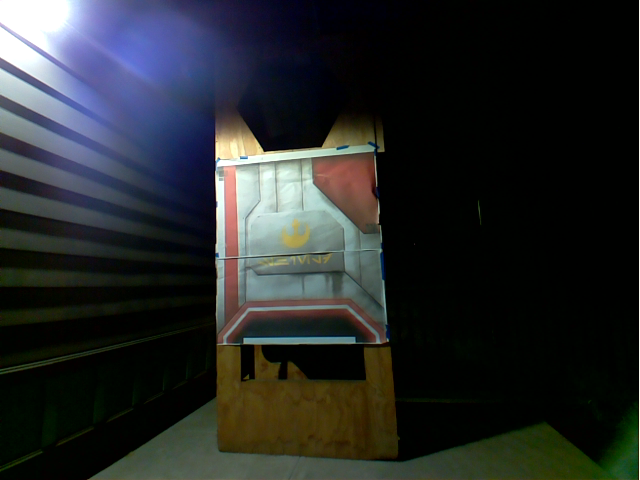
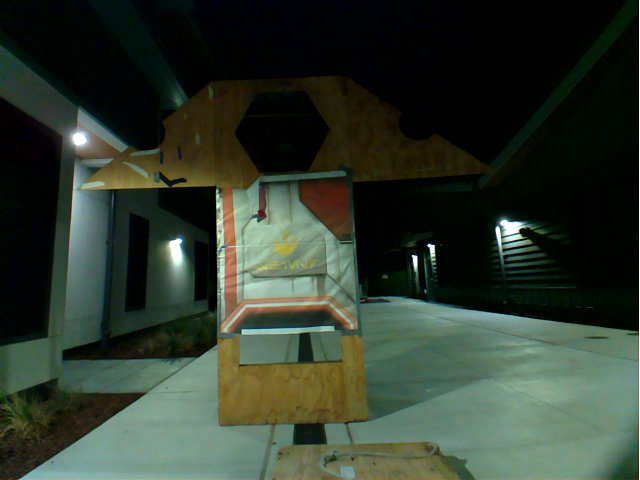
Adding targets for night time and far away daytime
Also fixed a couple lines that weren't printing properly in switch from
print to glog

diff --git a/y2020/vision/tools/python_code/target_definition.py b/y2020/vision/tools/python_code/target_definition.py
@@ -197,6 +197,113 @@ def load_training_data():
     training_target_power_port_taped.target_radius = target_radius_default
 
     ###
+    ### Taped power port -- far away image
+    ###
+
+    # Create the reference "ideal" image.
+    # NOTE: Since we don't have an "ideal" (e.g., graphic) version, we're
+    # just using the same image as the training image.
+    ideal_power_port_taped_far = TargetData(
+        'test_images/partial_971_power_port_red_daytime_far.png')
+
+    # Start at lower left corner, and work around clockwise
+    # These are taken by manually finding the points in gimp for this image
+    power_port_taped_far_main_panel_polygon_points_2d = [
+        (259, 363), (255, 230), (178, 234), (255, 169), (329, 164), (334, 225),
+        (341, 361)
+    ]
+
+    # These are "virtual" 3D points based on the expected geometry
+    power_port_taped_far_main_panel_polygon_points_3d = [
+        (-field_length / 2., c_power_port_edge_y, 0.),
+        (-field_length / 2., c_power_port_edge_y,
+         c_power_port_bottom_wing_height),
+        (-field_length / 2., c_power_port_edge_y - c_power_port_wing_width,
+         c_power_port_bottom_wing_height),
+        (-field_length / 2., c_power_port_edge_y, c_power_port_total_height),
+        (-field_length / 2., c_power_port_edge_y + c_power_port_width,
+         c_power_port_total_height),
+        (-field_length / 2., c_power_port_edge_y + c_power_port_width,
+         c_power_port_bottom_wing_height),
+        (-field_length / 2., c_power_port_edge_y + c_power_port_width, 0.)
+    ]
+
+    # Populate the taped power port
+    ideal_power_port_taped_far.polygon_list.append(
+        power_port_taped_far_main_panel_polygon_points_2d)
+    ideal_power_port_taped_far.polygon_list_3d.append(
+        power_port_taped_far_main_panel_polygon_points_3d)
+
+    # Location of target.  Rotation is pointing in -x direction
+    ideal_power_port_taped_far.target_rotation = -np.identity(3, np.double)
+    ideal_power_port_taped_far.target_position = np.array([
+        -field_length / 2., c_power_port_edge_y + c_power_port_width / 2.,
+        c_power_port_target_height
+    ])
+    ideal_power_port_taped_far.target_point_2d = np.float32(
+        [[294, 198]]).reshape(-1, 1,
+                              2)  # partial_971_power_port_red_daytime.png
+
+    training_target_power_port_taped_far = TargetData(
+        'test_images/partial_971_power_port_red_daytime_far.png')
+    training_target_power_port_taped_far.target_rotation = ideal_power_port_taped_far.target_rotation
+    training_target_power_port_taped_far.target_position = ideal_power_port_taped_far.target_position
+    training_target_power_port_taped_far.target_radius = target_radius_default
+
+    ###
+    ### Taped power port night image
+    ###
+
+    # Create the reference "ideal" image.
+    # NOTE: Since we don't have an "ideal" (e.g., graphic) version, we're
+    # just using the same image as the training image.
+    ideal_power_port_taped_night = TargetData(
+        'test_images/partial_971_power_port_red_nighttime.png')
+
+    # Start at lower left corner, and work around clockwise
+    # These are taken by manually finding the points in gimp for this image
+    power_port_taped_night_main_panel_polygon_points_2d = [
+        (217, 425), (215, 187), (78, 189), (212, 80), (344, 74), (347, 180),
+        (370, 421)
+    ]
+
+    # These are "virtual" 3D points based on the expected geometry
+    power_port_taped_night_main_panel_polygon_points_3d = [
+        (-field_length / 2., c_power_port_edge_y, 0.),
+        (-field_length / 2., c_power_port_edge_y,
+         c_power_port_bottom_wing_height),
+        (-field_length / 2., c_power_port_edge_y - c_power_port_wing_width,
+         c_power_port_bottom_wing_height),
+        (-field_length / 2., c_power_port_edge_y, c_power_port_total_height),
+        (-field_length / 2., c_power_port_edge_y + c_power_port_width,
+         c_power_port_total_height),
+        (-field_length / 2., c_power_port_edge_y + c_power_port_width,
+         c_power_port_bottom_wing_height),
+        (-field_length / 2., c_power_port_edge_y + c_power_port_width, 0.)
+    ]
+
+    # Populate the taped power port
+    ideal_power_port_taped_night.polygon_list.append(
+        power_port_taped_night_main_panel_polygon_points_2d)
+    ideal_power_port_taped_night.polygon_list_3d.append(
+        power_port_taped_night_main_panel_polygon_points_3d)
+
+    # Location of target.  Rotation is pointing in -x direction
+    ideal_power_port_taped_night.target_rotation = -np.identity(3, np.double)
+    ideal_power_port_taped_night.target_position = np.array([
+        -field_length / 2., c_power_port_edge_y + c_power_port_width / 2.,
+        c_power_port_target_height
+    ])
+    ideal_power_port_taped_night.target_point_2d = np.float32(
+        [[282, 132]]).reshape(-1, 1, 2)  # partial_971_power_port_red_night.png
+
+    training_target_power_port_taped_night = TargetData(
+        'test_images/partial_971_power_port_red_nighttime.png')
+    training_target_power_port_taped_night.target_rotation = ideal_power_port_taped_night.target_rotation
+    training_target_power_port_taped_night.target_position = ideal_power_port_taped_night.target_position
+    training_target_power_port_taped_night.target_radius = target_radius_default
+
+    ###
     ### Red Power Port
     ###
 
@@ -431,10 +538,23 @@ def load_training_data():
     ideal_target_list.append(ideal_power_port_taped)
     training_target_list.append(training_target_power_port_taped)
 
+    ### Taped power port far
+    glog.info(
+        "Adding hacked/taped up far away view of the power port to the model list"
+    )
+    ideal_target_list.append(ideal_power_port_taped_far)
+    training_target_list.append(training_target_power_port_taped_far)
+
+    ### Taped power port night
+    glog.info(
+        "Adding hacked/taped up of the power port at night to the model list")
+    ideal_target_list.append(ideal_power_port_taped_night)
+    training_target_list.append(training_target_power_port_taped_night)
+
     ### Red Power Port
-    glog.info("Adding red power port to the model list")
-    ideal_target_list.append(ideal_power_port_red)
-    training_target_list.append(training_target_power_port_red)
+    #glog.info("Adding red power port to the model list")
+    #ideal_target_list.append(ideal_power_port_red)
+    #training_target_list.append(training_target_power_port_red)
 
     ### Red Loading Bay
     #glog.info("Adding red loading bay to the model list")

diff --git a/y2020/vision/tools/python_code/train_and_match.py b/y2020/vision/tools/python_code/train_and_match.py
@@ -208,7 +208,7 @@ def compute_homographies(train_keypoint_lists, query_keypoint_lists,
 # Also shows image with query unwarped (to match training image) and target pt
 def show_results(training_images, train_keypoint_lists, query_images,
                  query_keypoint_lists, target_point_list, good_matches_list):
-    glog.info("Showing results for ", len(training_images), " training images")
+    glog.info("Showing results for %d training images" % len(training_images))
 
     homography_list, matches_mask_list = compute_homographies(
         train_keypoint_lists, query_keypoint_lists, good_matches_list)
@@ -219,14 +219,14 @@ def show_results(training_images, train_keypoint_lists, query_images,
         glog.debug("Showing results for model ", i)
         matches_mask_count = matches_mask_list[i].count(1)
         if matches_mask_count != len(good_matches):
-            glog.info("Homography rejected some matches!  From ",
-                      len(good_matches), ", only ", matches_mask_count,
-                      " were used")
+            glog.info(
+                "Homography rejected some matches!  From %d, only %d were used"
+                % (len(good_matches), matches_mask_count))
 
         if matches_mask_count < MIN_MATCH_COUNT:
             glog.info(
-                "Skipping match because homography rejected matches down to below ",
-                MIN_MATCH_COUNT)
+                "Skipping match because homography rejected matches down to below %d "
+                % MIN_MATCH_COUNT)
             continue
 
         # Create a box based on the training image to map onto the query img
